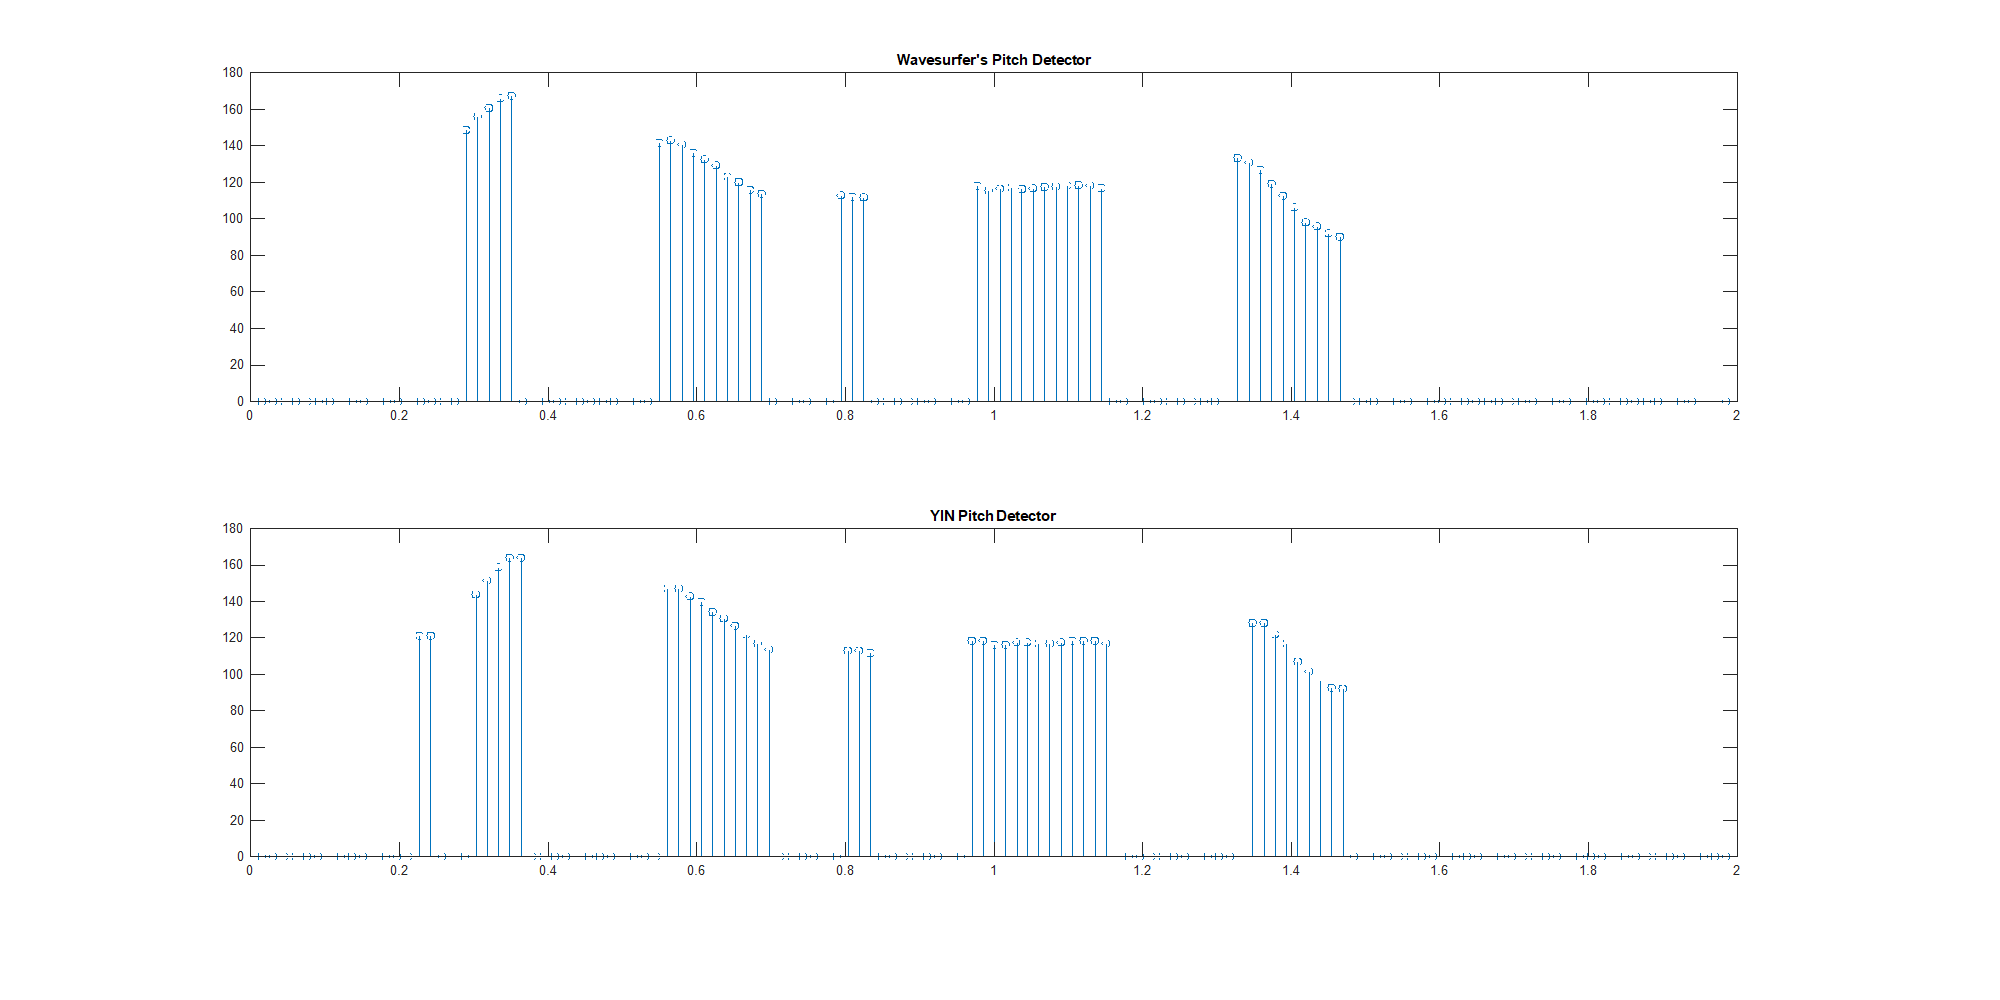
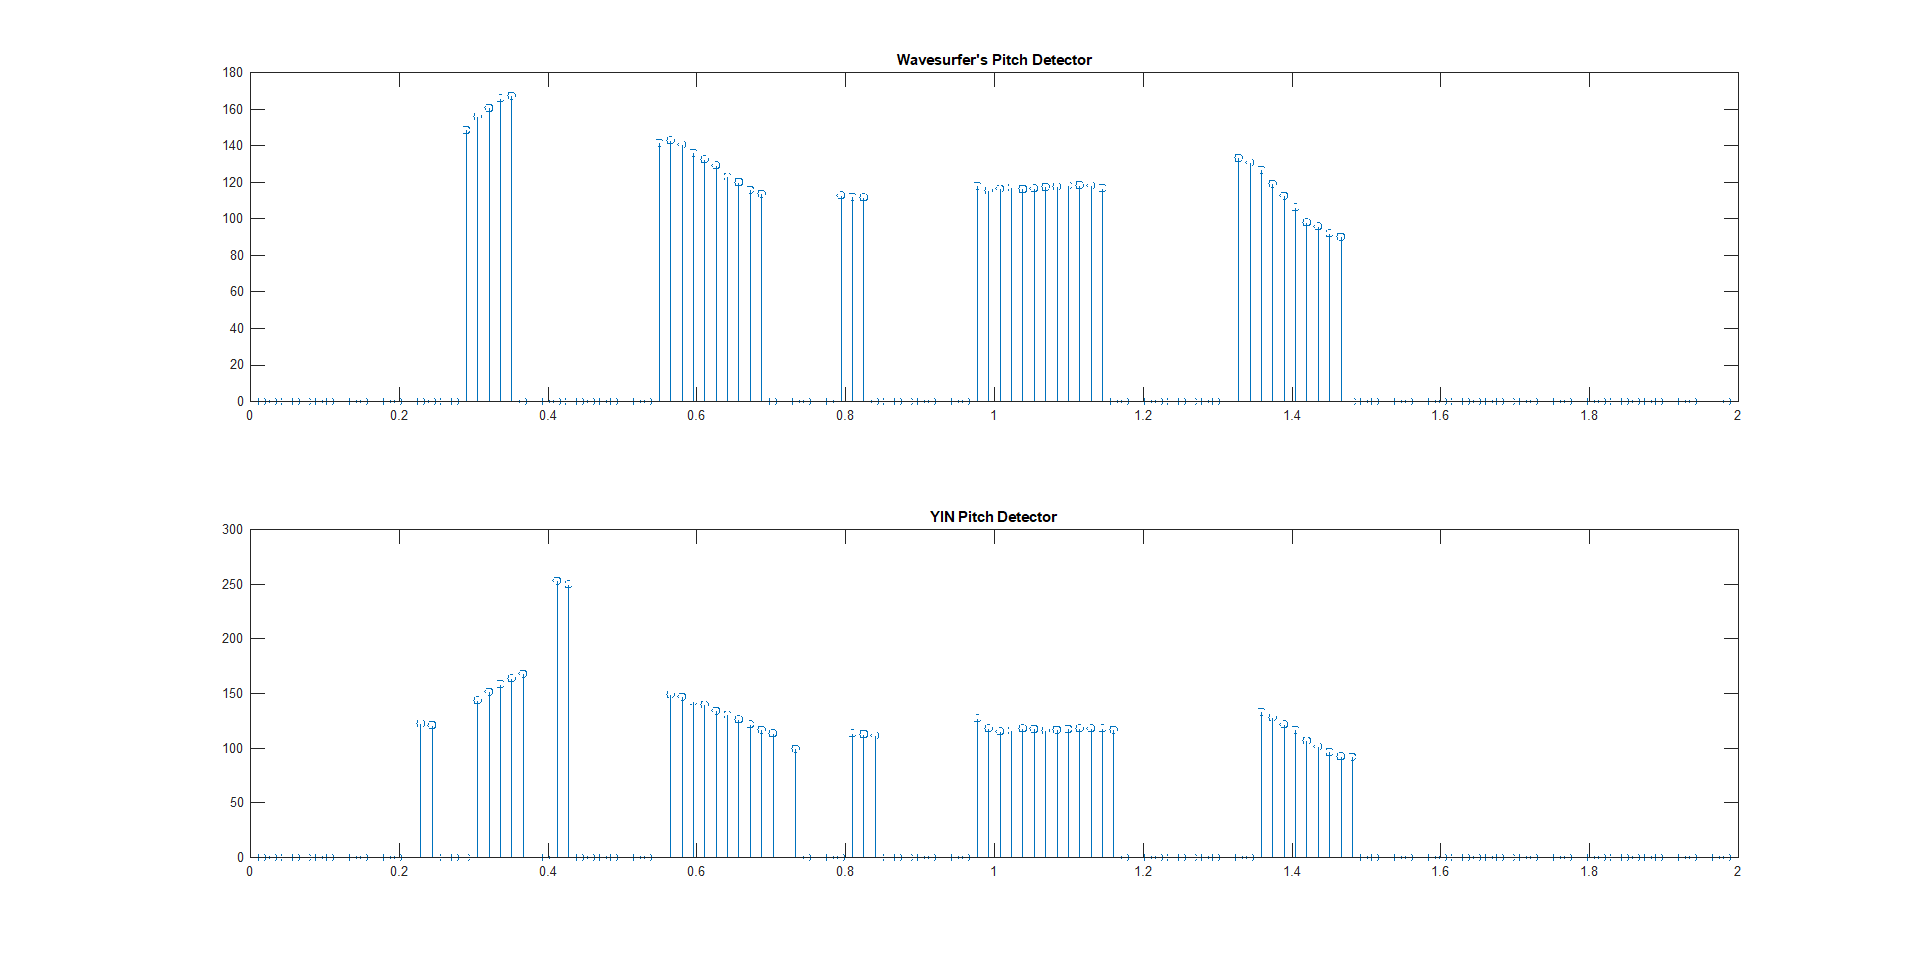
Add files via upload

diff --git a/README.md b/README.md
@@ -1,60 +1,118 @@
 PAV - P3: detección de pitch
 ============================
 
-Esta práctica se distribuye a través del repositorio GitHub [Práctica 3](https://github.com/albino-pav/P3).
-Siga las instrucciones de la [Práctica 2](https://github.com/albino-pav/P2) para realizar un `fork` de la
-misma y distribuir copias locales (*clones*) del mismo a los distintos integrantes del grupo de prácticas.
+Esta práctica se distribuye a través del repositorio GitHub [Práctica 3](https://github.com/albino-pav/P3). Siga las instrucciones de la [Práctica 2](https://github.com/albino-pav/P2) para realizar un `fork` de la misma y distribuir copias locales (*clones*) del mismo a los distintos integrantes del grupo de prácticas.
 
 Recuerde realizar el *pull request* al repositorio original una vez completada la práctica.
 
 Ejercicios básicos
 ------------------
 
-- Complete el código de los ficheros necesarios para realizar la detección de pitch usando el programa
-  `get_pitch`.
+- Complete el código de los ficheros necesarios para realizar la detección de pitch usando el programa `get_pitch`.
 
    * Complete el cálculo de la autocorrelación e inserte a continuación el código correspondiente.
 
-   * Inserte una gŕafica donde, en un *subplot*, se vea con claridad la señal temporal de un segmento de
-     unos 30 ms de un fonema sonoro y su periodo de pitch; y, en otro *subplot*, se vea con claridad la
-	 autocorrelación de la señal y la posición del primer máximo secundario.
+      Código de la autocorrelación:
 
-	 NOTA: es más que probable que tenga que usar Python, Octave/MATLAB u otro programa semejante para
-	 hacerlo. Se valorará la utilización de la librería matplotlib de Python.
+      ```cpp
+      for (unsigned int l = 0; l < r.size(); ++l) {
+        for (unsigned int n = 0; n < x.size() - l; ++n) {
+          r[l] += x[n] * x[n + l];
+        }
+      }
 
-   * Determine el mejor candidato para el periodo de pitch localizando el primer máximo secundario de la
-     autocorrelación. Inserte a continuación el código correspondiente.
+      if (r[0] == 0.0F) //to avoid log() and divide zero
+        r[0] = 1e-10;
+      ```
+
+   * Inserte una gŕafica donde, en un *subplot*, se vea con claridad la señal temporal de un segmento de unos 30 ms de un fonema sonoro y su periodo de pitch; y, en otro *subplot*, se vea con claridad la autocorrelación de la señal y la posición del primer máximo secundario.
+
+	 NOTA: es más que probable que tenga que usar Python, Octave/MATLAB u otro programa semejante para hacerlo. Se valorará la utilización de la librería matplotlib de Python.
+
+      Aquí està la imagen de la senyal (30 ms) con su correspondiente autocorrelación, vease que hemos marcado también los puntos clave para su uso posterior como són:
+      + r[0] = 0.773142
+      + r[1] = 0.732549
+      + r[lag] = 0.477899
+
+      <img src="sig&acor.png" align="center">
+
+   * Determine el mejor candidato para el periodo de pitch localizando el primer máximo secundario de la autocorrelación. Inserte a continuación el código correspondiente.
+
+      ```cpp
+      unsigned int lag = iRMax - r.begin();
+      unsigned int lag = 0;
+      float Pmax = 0;
+
+      for (unsigned int i = 0; iR != r.end(); ++iR) {
+        if ((*iR > Pmax) && (i > npitch_min) && (i < npitch_max)){
+          lag = i;
+          Pmax = *iR;
+        }
+        ++i;
+      }
+      ```
 
    * Implemente la regla de decisión sonoro o sordo e inserte el código correspondiente.
 
-- Una vez completados los puntos anteriores, dispondrá de una primera versión del detector de pitch. El 
-  resto del trabajo consiste, básicamente, en obtener las mejores prestaciones posibles con él.
+      El código correspondiante al decisor que hemos usado es este. Habiendo probado por separado cada uno de los valores y analizado su capazidad detección en solitario, empezamos a probar combinaciones de estos basandonos en la teoria aprendida.
+      Al final el que peroporcionó un mekor resultado fue el mostrado a continuación:
 
-  * Utilice el programa `wavesurfer` para analizar las condiciones apropiadas para determinar si un
-    segmento es sonoro o sordo. 
+      ```cpp
+      if ((r1norm > r1_th) && (rmaxnorm > rmax_th) && (pot > P_th))
+        return false;
+      else
+        return true;
+      ```
+      Las variables con '_th' al final són los thresholds de cada uno de los parámetros.
+
+
+- Una vez completados los puntos anteriores, dispondrá de una primera versión del detector de pitch. El resto del trabajo consiste, básicamente, en obtener las mejores prestaciones posibles con él.
+
+  * Utilice el programa `wavesurfer` para analizar las condiciones apropiadas para determinar si un segmento es sonoro o sordo. 
 	
-	  - Inserte una gráfica con la detección de pitch incorporada a `wavesurfer` y, junto a ella, los 
-	    principales candidatos para determinar la sonoridad de la voz: el nivel de potencia de la señal
-		(r[0]), la autocorrelación normalizada de uno (r1norm = r[1] / r[0]) y el valor de la
-		autocorrelación en su máximo secundario (rmaxnorm = r[lag] / r[0]).
+	  - Inserte una gráfica con la detección de pitch incorporada a `wavesurfer` y, junto a ella, los principales candidatos para determinar la sonoridad de la voz: el nivel de potencia de la señal	(r[0]), la autocorrelación normalizada de uno (r1norm = r[1] / r[0]) y el valor de la	autocorrelación en su máximo secundario (rmaxnorm = r[lag] / r[0]).
 
-		Puede considerar, también, la conveniencia de usar la tasa de cruces por cero.
+		  Puede considerar, también, la conveniencia de usar la tasa de cruces por cero.
 
-	    Recuerde configurar los paneles de datos para que el desplazamiento de ventana sea el adecuado, que
-		en esta práctica es de 15 ms.
+	    Recuerde configurar los paneles de datos para que el desplazamiento de ventana sea el adecuado, que	en esta práctica es de 15 ms.
 
-      - Use el detector de pitch implementado en el programa `wavesurfer` en una señal de prueba y compare
-	    su resultado con el obtenido por la mejor versión de su propio sistema.  Inserte una gráfica
-		ilustrativa del resultado de ambos detectores.
+        Los principales candidatos para determinar la autocorrelación los hemos calculado a partir de los valores marcados en la primera imagen usando el propio `MATLAB` y nos han dado el siguiente:
+
+        r1norm = r[1] / r[0] = 0.9475
+        rmaxnorm = r[lag] / r[0] = 0.4779
+
+        En la siguiente imagen se puede observar el detector de pitch del `wavesurfer`, la grafica está echa con `MATLAB` a través de le fichero que el propio `wavesurfer` guarda al realizar sdu detector ESPS.
+
+        <img src="wave.png" align="center">
+
+    - Use el detector de pitch implementado en el programa `wavesurfer` en una señal de prueba y compare su resultado con el obtenido por la mejor versión de su propio sistema.  Inserte una gráfica ilustrativa del resultado de ambos detectores.
+
+        Aquí se muestra la comparación entre ambos detectores:
+
+        <img src="comp.png" align="center">
   
-  * Optimice los parámetros de su sistema de detección de pitch e inserte una tabla con las tasas de error
-    y el *score* TOTAL proporcionados por `pitch_evaluate` en la evaluación de la base de datos 
-	`pitch_db/train`..
+  * Optimice los parámetros de su sistema de detección de pitch e inserte una tabla con las tasas de error y el *score* TOTAL proporcionados por `pitch_evaluate` en la evaluación de la base de datos `pitch_db/train`..
 
-   * Inserte una gráfica en la que se vea con claridad el resultado de su detector de pitch junto al del
-     detector de Wavesurfer. Aunque puede usarse Wavesurfer para obtener la representación, se valorará
-	 el uso de alternativas de mayor calidad (particularmente Python).
+      Summary
+      
+      Num. frames:    11191 = 7036 unvoiced + 4155 voiced
+      
+      Unvoiced frames as voiced:      214/7036 (3.04 %)
+      
+      Voiced frames as unvoiced:      467/4155 (11.24 %)
+      
+      Gross voiced errors (+20.00 %): 21/3688 (0.57 %)
+      
+      MSE of fine errors:     2.62 %
+
+      ===>    TOTAL:  90.83 %
+
+   * Inserte una gráfica en la que se vea con claridad el resultado de su detector de pitch junto al del detector de Wavesurfer. Aunque puede usarse Wavesurfer para obtener la representación, se valorará el uso de alternativas de mayor calidad (particularmente Python).
    
+      Aquí se muestra la comparación entre ambos detectores:
+
+      <img src="comp.png" align="center">
+
 
 Ejercicios de ampliación
 ------------------------
@@ -68,30 +126,34 @@ Ejercicios de ampliación
 
   * Inserte un *pantallazo* en el que se vea el mensaje de ayuda del programa y un ejemplo de utilización
     con los argumentos añadidos.
+    <img src="get_pitch_help.PNG" width="1100" align="center">
 
 - Implemente las técnicas que considere oportunas para optimizar las prestaciones del sistema de detección
   de pitch.
 
-  Entre las posibles mejoras, puede escoger una o más de las siguientes:
+  Para nuestro sistema de detección de pitch nos hemos basado prácticamente por completo en un estimador conocido bajo el nombre de YIN. Su funcionamiento y características se pueden encontrar en el articulo:
 
-  * Técnicas de preprocesado: filtrado paso bajo, *center clipping*, etc.
-  * Técnicas de postprocesado: filtro de mediana, *dynamic time warping*, etc.
-  * Métodos alternativos a la autocorrelación: procesado cepstral, *average magnitude difference function*
-    (AMDF), etc.
-  * Optimización **demostrable** de los parámetros que gobiernan el detector, en concreto, de los que
-    gobiernan la decisión sonoro/sordo.
-  * Cualquier otra técnica que se le pueda ocurrir o encuentre en la literatura.
+    De Cheveigné, A., y Kawahara, H. (2002). YIN, a fundamental frequency estimator for speech and music. *The Journal of the Acoustical Society of America, 111.*
 
-  Encontrará más información acerca de estas técnicas en las [Transparencias del Curso](https://atenea.upc.edu/pluginfile.php/2908770/mod_resource/content/3/2b_PS%20Techniques.pdf)
-  y en [Spoken Language Processing](https://discovery.upc.edu/iii/encore/record/C__Rb1233593?lang=cat).
-  También encontrará más información en los anexos del enunciado de esta práctica.
+    Sobre este método, hemos tenido que realizar diferentes adaptaciones y/o mejoras, para que pudiera funcionar en nuestro programa. Aquí debajo teneis un resumen de estas así como las consclusiones que hemos ido sacando:
 
-  Incluya, a continuación, una explicación de las técnicas incorporadas al detector. Se valorará la
-  inclusión de gráficas, tablas, código o cualquier otra cosa que ayude a comprender el trabajo realizado.
+    * Hemos tenido que aplicar por ello varios cambios a la estructura de la práctica, como ampliar el tamaño del frame a 50ms para que quepan los 25ms de ventana de integración y los 25ms necesarios para la detección de un pitch de hasta 40Hz. Así como añadir los pasos 1-4 de dicho método. Con esto hemos logrado una primera base sobre la que trabajar.
 
-  También se valorará la realización de un estudio de los parámetros involucrados. Por ejemplo, si se opta
-  por implementar el filtro de mediana, se valorará el análisis de los resultados obtenidos en función de
-  la longitud del filtro.
+    * Con dicha base, los resultados no eran muy prometedores, así que hemos tenido que realizar una serie de mejoras sobre esta. Lo primero que hemos hecho ha sido implementar el paso 5 del método de YIN, correspondiente a la interpolación parabólica. Este paso, si bien ha resultado relativamente sencillo de implementar y computacionalmente poco costoso, ha dado una mejora prácticamente negligible: en nuestras pruebas ha mejorado de manera constante el MSE en un 0.01%. Aun así hemos decidido dejarlo, por lo anteriormente descrito.
+
+    * Lo siguiente era implementar el paso 6, pero computacionalmente era inviable para nuestros objetivos. Lo que hemos hecho en cambio ha sido implementar un filtro de mediana, que si bien no es lo mismo tenía sentido implementarlo, ya que el paso 6, como se describe en el artículo, se asemeja a un filtro de mediana, pero a corto plazo. Esto sí ha mejorado relativamente nuestro detector
+
+    * Luego hemos añadido un preprocesado consistente en un filtro paso bajo rectangular de 1 ms con frecuencia de corte a 1kHz. Escondido entre el apartado de parámetros del paper se menciona que para obtener tales resultados se usaba exactamente el filtro que hemos descrito, así que hemos considerado razonable usarlo.
+
+    * Hemos implementado una mejora respecto al método original: una aportación propia a este. En el paso 4, se realiza la búsqueda del mínimo de d'(t) que determina el pitch, pero para ello, ellos determinan primero un umbral absoluto, según el cual determinan el pitch como el menor valor de t que cumpla que d'(t) sea menor que tal umbral. Esto lo hacen para evitar detectar armónicos secundarios en vez del pitch, pero a mi parecer si esto puede implicar ciertos error fino. Este valor que se coje, puede no ser el valor mínimo del pico correspondiente al pitch, sino solo uno unas pocas muestras antes de éste que por cercanía está por debajo del umbral. Mi aportación en este caso es la de añadir un algoritmo que una vez encontrado el valor mínimo que cumpla el umbral, se busque el mínimo dentro de ese pico mismo (es decir, que siga buscando valores hasta que se deje de cumplir el umbral, y entre ellos escoja el mínimo). Esto ha significado una mejora del MSE de cerca del 0.15%. En este última modificación, si bien hemos probado tambien de realizar los mismo con la mediana, esta no nos ha funcionado tan bien como con la media.
+
+    * Finalmente, hemos añadido tambien una mejora sobre programa que se beneficia del conocimiento que tenemos a priori sobre la forma de los datos a analizar. Concretamente nos aprovechamos de que sabemos que todos los ficheros de audio estan con una única voz por fichero, y que por lo tanto deberiamos obtener valores del pitch on una varianza relativamente baja. La mejora en sí, consiste en un algoritmo que calcula la media del pitch obtenido y marca como tramas sordas aquellas que presentan una desviación del pitch más grande de cierto valor respecto a la media. Esto implica 2 mejoras directamente: primero, que reduce el número de tramas detectadas como sonoras erróneamente, ya que muchas veces estas dan un pitch muy dispar. Luego (y esto es lo que nos hace cuestionar su moralidad), aquellas tramas cuyo pitch se ha detectado con un error muy grande, se dejan de tener en cuenta para calcular la puntuación de este, lo cual lo mejora significativamente.
+
+A modo de conclusión, queríamos destacar algo que hemos aprendido durante la realizacón de la práctica y al contrastar resultados. El caso es que comparando nuestros resultados con los proporcionados en el articulo, hemos visto una gran disparidad, que no se puede justificar únicamente con las diferencias entre nuestra implementación y la descrita en el artícula. Estas diferencias se justifican con un descubrimiento que hemos hecho sobre el metodo de evaluación usado en tal publicación, que explican en gran parte sus buenos resultados. Concretamente se puede localizar la siguiente frase en la página 13 del articulo:
+
+    `Ground-truth F0 estimates for the first four databases were extracted from the laryngograph signal using YIN.`
+    
+Es decir, que los datos con los que se evalúan todos los métodos, los han obtenido usando su propio método, con lo cual sería razonable afirmar que esté ligeramente sesgada para con su propio método. En uno de las tablas, se dan los valores obtenidos en las mismas bases de datos, pero usando los valores que habían proporcionado los autores de tales bases. En esta, el resultado obtenido en la DB2 (la usada en nuestra práctica) era un gross error del 2.2%, más en la linea de los resultados que estamos obteniendo nosotros en condiciones similares.  
    
 
 Evaluación *ciega* del detector
